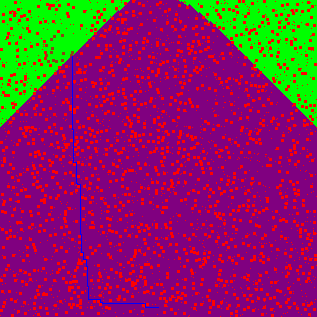
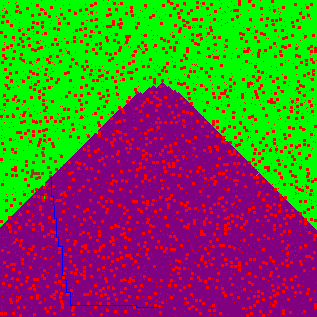
Completed Dijkstra
Fixed Dijkstra Code
Optimized calculated Dijkstra Index

diff --git a/worldGenerationFunctions.py b/worldGenerationFunctions.py
@@ -4,10 +4,9 @@ from worldSettings import *
 from ursina.prefabs.first_person_controller import FirstPersonController
 from PIL import Image, ImageDraw
 from collections import deque
+import heapq
 from ursina.prefabs.health_bar import HealthBar
 
-#class Player:
-    
 class GameScreen:
     def __init__(self):
         self.settings = worldSettings()
@@ -20,9 +19,10 @@ class GameScreen:
         
         # 2D map of obstacle positions and free spaces
         self.tile_map = []
+        self.tile_coordinates = []
         
         # Generate the Home
-        self.home_tile_positions = homeGeneration(self)
+        self.home_tile_positions = homeGeneration(self.settings)
         
         # Sets and lists to store unique obstacle positions
         self.obstacle_positions = set()
@@ -36,7 +36,9 @@ class GameScreen:
         singlesGeneration(self.obstacle_positions, self.home_tile_positions, self.single_locations, self.settings)
           
         # Generate the map
-        generateMap(self.tile_map, self.block_positions, self.obstacle_positions, self.home_tile_positions, self.settings)
+        generateMap(self.tile_map, self.tile_coordinates, self.block_positions, self.obstacle_positions, self.home_tile_positions, self.settings)
+        
+        self.dijkstraDictionary = calculateDijkstraDictionary(self.settings, self.tile_map, self.tile_coordinates, self.single_locations, self.cluster_locations)
 
         while (self.player_spawn_x, self.player_spawn_z) in self.obstacle_positions:
             self.player_spawn_x += 1  # Adjust as necessary
@@ -49,9 +51,7 @@ class GameScreen:
         )
 
         self.current_position = (int(self.player_spawn_x), int(self.player_spawn_z))
-
-        #healthBar()
-
+        
         self.MiniMap = Entity(
             parent=camera.ui,
             model='quad',
@@ -77,7 +77,6 @@ class GameScreen:
             position=(0.35, -0.25, 0.5),
             rotation=(-15, -30, -5)
         )
-
 
     def setMap(self, map_entity):
         self.map = map_entity
@@ -237,37 +236,15 @@ class GameScreen:
         return None  # No path found
     
     def dijkstra(self):
-        obstacle_cluster_types = ["stone", "lava", "water"] # Cluster obstacle types
-        obstacle_single_types = ["wood", "bedrock", "mud", "darkstone", "trimmedGrass"] # Single obstacle types
+        print("algorithm started")
         tile_map = self.tile_map
         rows = len(tile_map)
         cols = len(tile_map[0])
-        # Dijkstra's calculation weights
-        directions = [(0, 1), (0, -1), (1, 0), (-1, 0)]
-        self.dijkstraDictionary = {}
-        for x in self.settings.get_world_size():
-            for z in self.settings.get_world_size():
-                list = []
-                for (dx, dz) in directions:
-                    if x + dx >= 0 and x + dx <= self.settings.get_world_size() and z + dz >= 0 and z + dz <= worldSettings.get_world_size():
-                        for single_position, obstacleType in self.single_locations:
-                            if (x, z) == single_position:
-                                block_type = obstacle_single_types[obstacleType - 1]
-                                if block_type == "wood":
-                                    list.append(((x + dx, z + dz), 2))
-                                else:
-                                    list.append(((x + dx, z + dz), 5))
-                        for cluster_position, obstacleType in self.cluster_locations:
-                            if (x, z) == cluster_position:
-                                block_type = obstacle_cluster_types[obstacleType - 1]
-                                if block_type == "stone":
-                                    list.append(((x + dx, z + dz), 3))
-                                elif block_type == "water":
-                                    list.append(((x + dx, z + dz), 4))
-                                elif block_type == "lava":
-                                    list.append(((x + dx, z + dz), 6))
-                        list.append(((x + dx, z + dz), random.randint(1, 10)))
-                self.dijkstraDictionary[(x, z)] = list
+        self.dijkstraMap = Image.new('RGB', (self.settings.get_world_size(), self.settings.get_world_size()), color=(0, 0, 0, 0))
+        self.colorMap = []
+        draw_minimap(self.dijkstraMap, self.tile_map, self.colorMap, self.settings)
+        self.drawDijkstra = ImageDraw.Draw(self.dijkstraMap)
+        draw = self.drawDijkstra
 
         start = None
         goal = []
@@ -277,12 +254,9 @@ class GameScreen:
                     start = (i, j)
                 elif tile_map[i][j] == 'H':  # 'H' represents the home
                     goal.append((i, j))
-
-        if start is None or goal is None:
-            return None  # Player or home not found
-
-        if start in goal:
-            return None  # Player is already at home
+                    break
+        print(f"Start: {start}")
+        print(f"Goal: {goal}")
 
         # Priority queue to store (distance, node)
         queue = [(0, start)]
@@ -290,44 +264,34 @@ class GameScreen:
         distances = {start: 0}
         # Dictionary to store the path
         predecessors = {start: None}
-
-        print("algorithm started")
-        tile_map = self.tile_map
-        self.dijkstraMap = Image.new('RGB', (self.settings.get_world_size(), self.settings.get_world_size()), color=(0, 0, 0, 0))
-        self.colorMap = []
-        draw_minimap(self.dijkstraMap, self.tile_map, self.colorMap, self.settings)
-        self.drawDijkstra = ImageDraw.Draw(self.dijkstraMap)
-        draw = self.drawDijkstra
-
+        nearestNode = None
         while queue:
             current_distance, current_node = heapq.heappop(queue)
-
             if current_node in goal:
+                nearestNode = current_node
                 break
 
             for neighbor, weight in self.dijkstraDictionary.get(current_node, []):
+                print(neighbor)
                 distance = current_distance + weight
 
                 if neighbor not in distances or distance < distances[neighbor]:
+                    print("current_distance: " + str(current_distance) + " current_node: " + str(current_node))
+                    draw.point((self.settings.get_world_size() - neighbor[0] - 1, neighbor[1]), fill=(128, 0, 128, 255))
                     distances[neighbor] = distance
                     predecessors[neighbor] = current_node
                     heapq.heappush(queue, (distance, neighbor))
-
         self.dijkstraMap.save("minimapAlgorithmVisitedDijkstra.png")
-
         # Reconstruct the shortest path
         path = []
-        node = goal
+        node = nearestNode
         while node is not None:
             path.append(node)
             node = predecessors[node]
-        path.reverse()
-
-        for (x, z) in path:
-            draw.point((self.settings.get_world_size() - x - 1, z), fill=(0, 0, 255, 255))
+            if node is not None:
+                draw.point((self.settings.get_world_size() - node[0] - 1, node[1]), fill=(0, 0, 255, 255))
         self.dijkstraMap.save("minimapAlgorithmPathDijkstra.png")
-        return path
-
+        path.reverse()
 # Block class
 class Block(Entity):
     def __init__(self, position=(0, 0, 0), scale=(1, 1, 1), block_type="grass", **kwargs):
@@ -359,6 +323,47 @@ class Block(Entity):
         )
         self.block_type = block_type
 
+def calculateDijkstraDictionary(settings, tile_map, tile_coordinates, single_locations, cluster_locations):
+    obstacle_cluster_types = ["stone", "lava", "water"]  # Cluster obstacle types
+    obstacle_single_types = ["wood", "bedrock", "mud", "darkstone", "trimmedGrass"]  # Single obstacle types
+
+    directions = [(0, 1), (0, -1), (1, 0), (-1, 0)]
+    dijkstraDictionary = {}
+
+    single_locations_dict = {tuple(pos): obstacleType for pos, obstacleType in single_locations}
+    cluster_locations_dict = {tuple(pos): obstacleType for pos, obstacleType in cluster_locations}
+
+    world_size = settings.get_world_size()
+
+    for row in tile_coordinates:
+        for (x, z) in row:
+            list = []
+            if tile_map[x][z] != "O":
+                for (dx, dz) in directions:
+                    new_x, new_z = x + dx, z + dz
+                    if 0 <= new_x <= world_size and 0 <= new_z <= world_size:
+                        if (new_x, new_z) in single_locations_dict:
+                            obstacleType = single_locations_dict[(new_x, new_z)]
+                            block_type = obstacle_single_types[obstacleType - 1]
+                            if block_type == "wood":
+                                list.append(((new_x, new_z), 2))
+                            else:
+                                list.append(((new_x, new_z), 5))
+                        elif (new_x, new_z) in cluster_locations_dict:
+                            obstacleType = cluster_locations_dict[(new_x, new_z)]
+                            block_type = obstacle_cluster_types[obstacleType - 1]
+                            if block_type == "stone":
+                                list.append(((new_x, new_z), 3))
+                            elif block_type == "water":
+                                list.append(((new_x, new_z), 4))
+                            elif block_type == "lava":
+                                list.append(((new_x, new_z), 6))
+                        else:
+                            list.append(((new_x, new_z), 1))
+                dijkstraDictionary[(x, z)] = list
+
+    return dijkstraDictionary
+
 # Draw the texture for the MiniMap
 def draw_minimap(image, tile_map, colorMap, settings):
     
@@ -389,12 +394,12 @@ def draw_minimap(image, tile_map, colorMap, settings):
     print("MiniMap Created")
 
 # Generate Home Structure
-def homeGeneration(self):
+def homeGeneration(settings):
     home_tile_positions = []
-    x = random.randint(self.settings.get_home_min_z(), self.settings.get_home_max_z())
-    z = random.randint(0, self.settings.get_world_size() - self.settings.get_home_size() - 10)
-    for dx in range(self.settings.get_home_size()):
-        for dz in range(self.settings.get_home_size()):
+    x = random.randint(settings.get_home_min_z(), settings.get_home_max_z())
+    z = random.randint(0, settings.get_world_size() - settings.get_home_size() - 10)
+    for dx in range(settings.get_home_size()):
+        for dz in range(settings.get_home_size()):
             home_tile_positions.append((x + dx, z + dz))
     return home_tile_positions
 
@@ -443,10 +448,11 @@ def singlesGeneration(obstacle_positions, home_tile_positions, single_locations,
             single_locations.append(((x, z), obstacleType))
 
 # Generate the Map
-def generateMap(tile_map, block_positions, obstacle_positions, home_tile_positions, settings):
+def generateMap(tile_map, tile_coordinates, block_positions, obstacle_positions, home_tile_positions, settings):
         # Initialize the tile map
     for x in range(settings.get_world_size()):
         row = [] #declare a row to store the tile status (Free Space or Obstacle) (True or False)
+        list = []
         for z in range(settings.get_world_size()):
             position = (x, -5, z)
             is_free_space = (x, z) not in obstacle_positions
@@ -459,10 +465,15 @@ def generateMap(tile_map, block_positions, obstacle_positions, home_tile_positio
                 row.append("H") # H for Home
             else:
                 row.append("O") # O for Obstacle
+            list.append((x, z))
+        tile_coordinates.append(list)
         tile_map.append(row)
 
 def update_blocks_on_path(game, path, block_type):
     world_size = game.game_screen.settings.get_world_size()
+    if path is None:
+        return
+
     for x, z in path:
         # Ensure coordinates are within world bounds
         if 0 <= x < world_size and 0 <= z < world_size:
@@ -481,14 +492,5 @@ def update_blocks_on_path(game, path, block_type):
             # Persist in block_positions to ensure it isn't culled by render logic
             game.game_screen.block_positions[world_position] = False
 
-#Health bar function
-def healthBar():
-    health_bar = HealthBar(
-                value=100, 
-                position=(-0.8, 0.4), 
-                bar_color=color.blue, 
-                bar_texture="minecraft_starter/assets/textures/healthBar.png",
-                roundness=0.7, 
-                scale=(0.4, 0.05)
-            )
-    return health_bar
+
+
